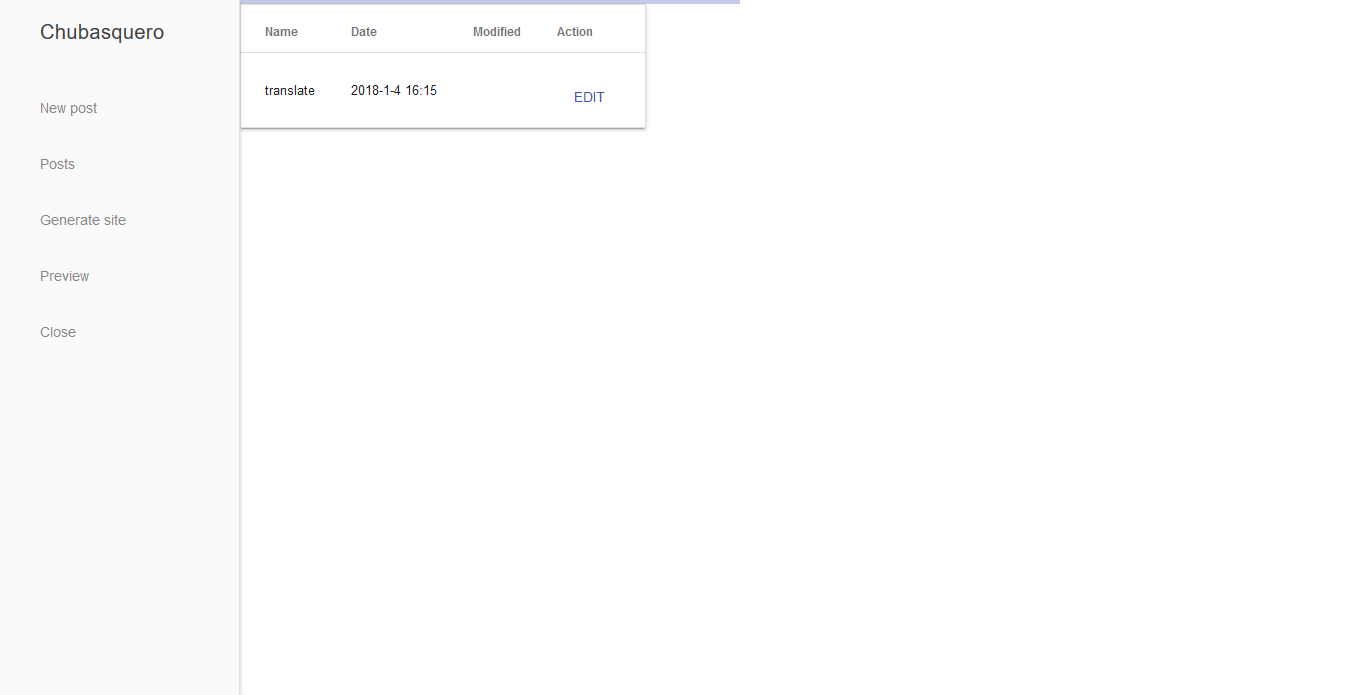
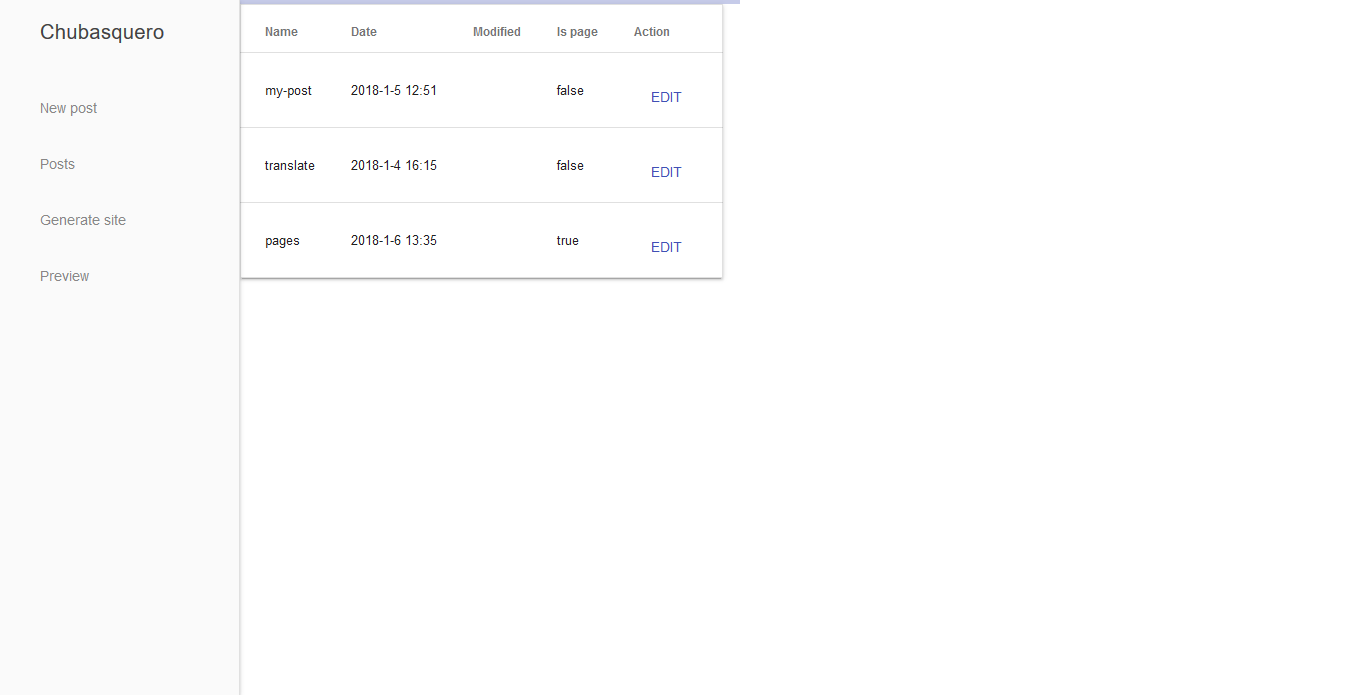
Reflect isPage on meta tab

diff --git a/chubasquero/static/chubasquero.js b/chubasquero/static/chubasquero.js
@@ -163,6 +163,12 @@ const chubasquero = new Vue({
         this.$refs.slug.value = response.meta.slug;
         this.$refs.tags.value = post.tags;
         this.$refs.category.value = post.meta.category;
+        this.$refs.isPage.checked = post.isPage;
+        if (post.isPage){
+          this.$refs.isPage.parentElement.MaterialCheckbox.check();
+        }else{
+          this.$refs.isPage.parentElement.MaterialCheckbox.uncheck();
+        }
         this.currentPost = post;
         componentHandler.upgradeElement(this.$refs.slug);
         componentHandler.upgradeElement(this.postTextarea);

diff --git a/chubasquero/static/post.js b/chubasquero/static/post.js
@@ -51,7 +51,7 @@ class Post {
       authors: [],
       //summary: '',
     };
-    this.isPage = false;
+    this.isPage = thereisJsonObject ? jsonObject.isPage : false;
     this.content = thereisJsonObject ? jsonObject.content : '';
     // FIXME: replace Map by object because vuejs
     this.translations = {};

diff --git a/chubasquero/core.py b/chubasquero/core.py
@@ -86,9 +86,13 @@ def get_post(slug):
     """Returns a JSON object of the post to be used by javascript Post class."""
     filename = slug + ".rst";
     filepath = os.path.join(chubasquero.CONTENT_PATH, filename)
-    return json.dumps(
-        dict(**chubasquero.get_post_data(filepath)
-            , translations=chubasquero.get_post_translations(slug)))
+    jsonObject = {}
+    if not os.path.exists(filepath):
+        filepath = os.path.join(chubasquero.CONTENT_PATH_PAGES, filename)
+        jsonObject["isPage"] = True
+    jsonObject.update(**chubasquero.get_post_data(filepath)
+        , translations=chubasquero.get_post_translations(slug))
+    return json.dumps(jsonObject)
 
 @app.route("/generate-site")
 def generate_site():

diff --git a/chubasquero/post.py b/chubasquero/post.py
@@ -42,6 +42,9 @@ def get_post_translations(slug):
     """
     posts = [get_post_data(entry) for entry in os.scandir(CONTENT_PATH)
     if entry.name.split('.')[0] == slug and len(entry.name.split('.')) > 2]
+    if not posts:
+        posts = [get_post_data(entry) for entry in os.scandir(CONTENT_PATH_PAGES)
+            if entry.name.split('.')[0] == slug and len(entry.name.split('.')) > 2]
     return {translation["meta"]["lang"] : translation for translation in posts}
 
 def get_post_data(post_path):
